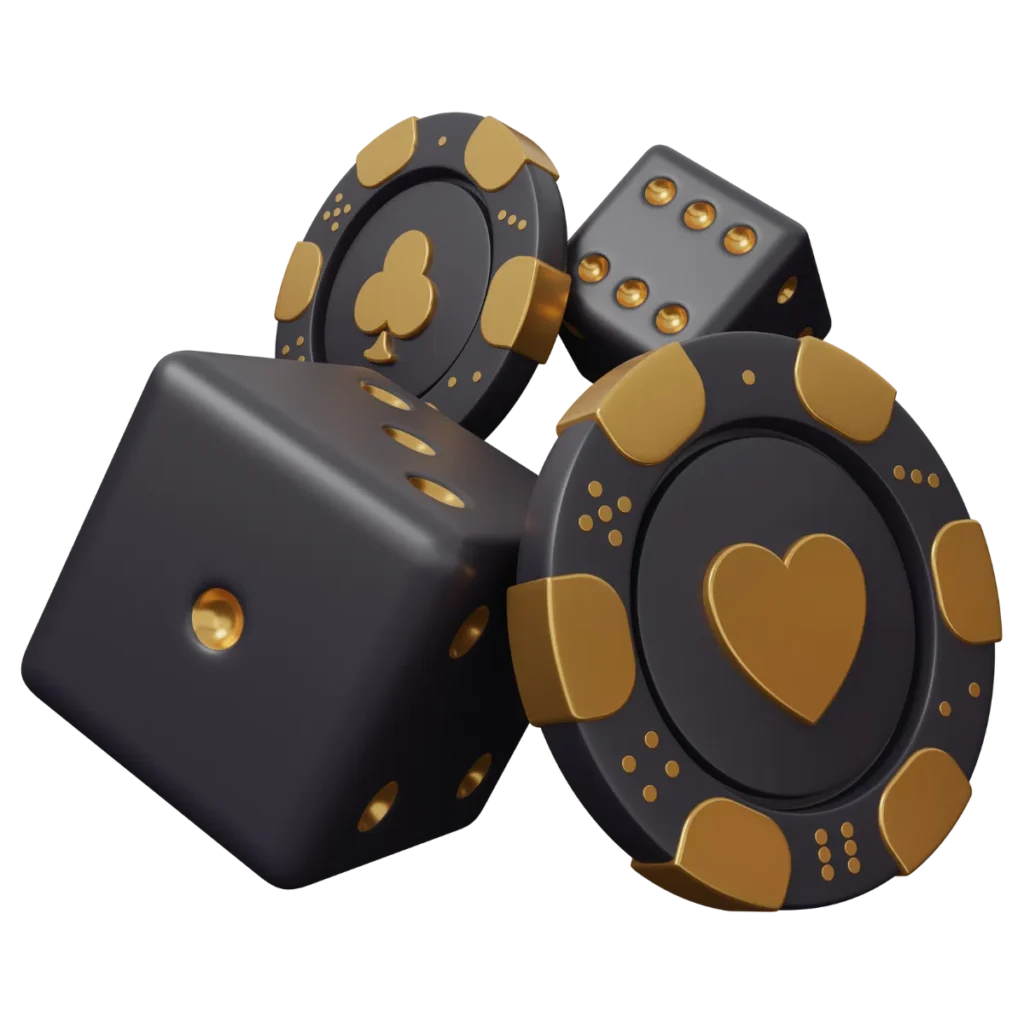
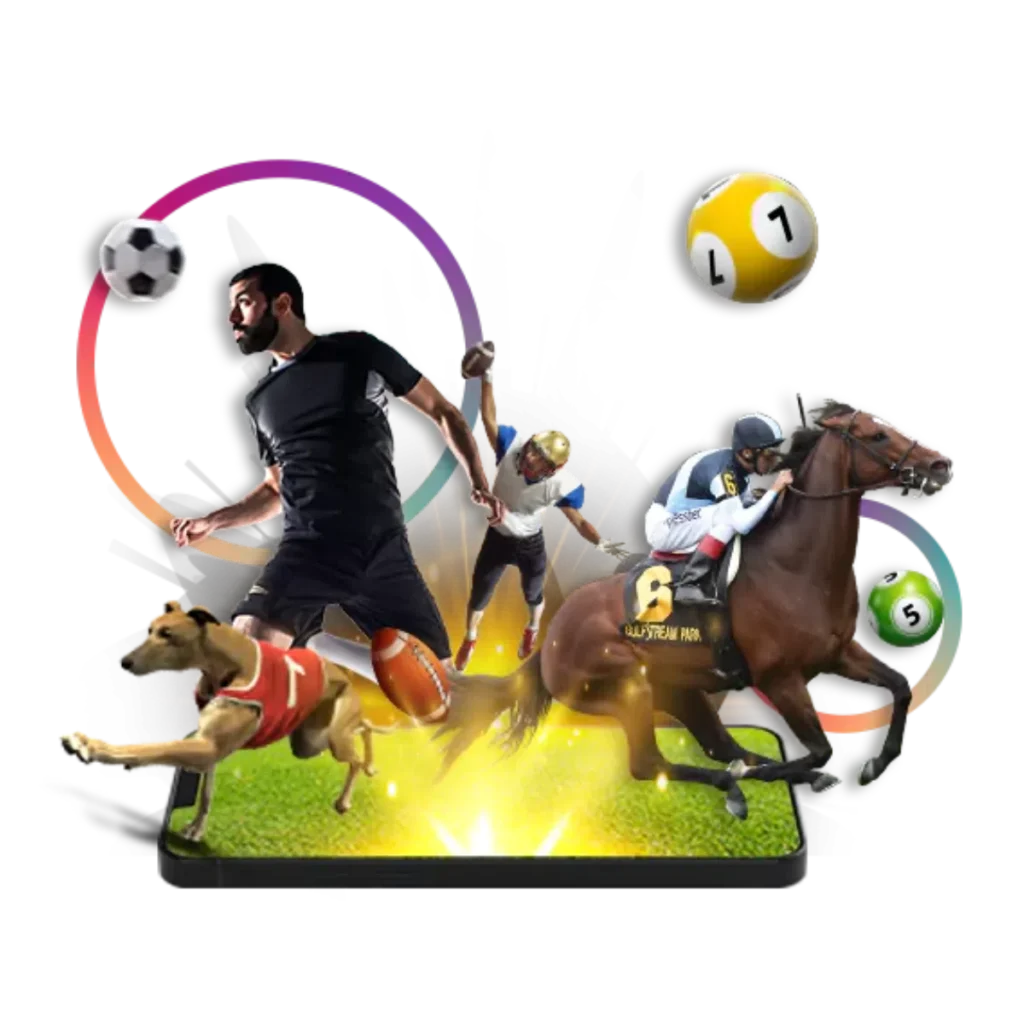
Fix IWIN game category imagery and centralize category image mapping.

diff --git a/content/games/catalog.ts b/content/games/catalog.ts
@@ -1,3 +1,5 @@
+import type { Locale } from "@/lib/i18n/config";
+
 export type GameCategoryId = "slots" | "live-casino" | "sports" | "4d";
 
 export type GameCategory = {
@@ -5,6 +7,8 @@ export type GameCategory = {
   name: string;
   routeKey: "games-slots" | "games-live-casino" | "games-sports" | "games-4d";
   image: string;
+  alt: Record<Locale, string>;
+  objectPosition?: string;
 };
 
 export type ProviderReference = {
@@ -14,12 +18,71 @@ export type ProviderReference = {
   note: string;
 };
 
+/** Single source of truth for IWIN game category card imagery. */
 export const GAME_CATEGORIES: readonly GameCategory[] = [
-  { id: "slots", name: "Slots", routeKey: "games-slots", image: "/images/games/slots.webp" },
-  { id: "live-casino", name: "Live Casino", routeKey: "games-live-casino", image: "/images/games/live-casino.webp" },
-  { id: "sports", name: "Sports", routeKey: "games-sports", image: "/images/games/sports.webp" },
-  { id: "4d", name: "4D", routeKey: "games-4d", image: "/images/games/4d.webp" },
+  {
+    id: "slots",
+    name: "Slots",
+    routeKey: "games-slots",
+    image: "/images/games/slots.webp",
+    alt: {
+      en: "IWIN Slots",
+      ms: "Slot IWIN",
+      zh: "IWIN 老虎机",
+    },
+  },
+  {
+    id: "live-casino",
+    name: "Live Casino",
+    routeKey: "games-live-casino",
+    image: "/images/games/live-casino.png",
+    alt: {
+      en: "IWIN Live Casino",
+      ms: "Kasino Langsung IWIN",
+      zh: "IWIN 真人娱乐场",
+    },
+    objectPosition: "center top",
+  },
+  {
+    id: "sports",
+    name: "Sports",
+    routeKey: "games-sports",
+    image: "/images/games/sports.webp",
+    alt: {
+      en: "IWIN Sports",
+      ms: "Sukan IWIN",
+      zh: "IWIN 体育",
+    },
+    objectPosition: "center 35%",
+  },
+  {
+    id: "4d",
+    name: "4D",
+    routeKey: "games-4d",
+    image: "/images/games/4d.png",
+    alt: {
+      en: "IWIN 4D",
+      ms: "4D IWIN",
+      zh: "IWIN 4D",
+    },
+    objectPosition: "left center",
+  },
 ] as const;
+
+export function getGameCategoryImage(routeKey: GameCategory["routeKey"]): string {
+  return GAME_CATEGORIES.find((cat) => cat.routeKey === routeKey)?.image ?? "/images/games/slots.webp";
+}
+
+export function getGameCategoryAlt(
+  routeKey: GameCategory["routeKey"],
+  locale: Locale,
+): string {
+  return GAME_CATEGORIES.find((cat) => cat.routeKey === routeKey)?.alt[locale] ?? "IWIN game category";
+}
+
+export function getGameCategoryByRouteKey(routeKey: GameCategory["routeKey"]): GameCategory | undefined {
+  return GAME_CATEGORIES.find((cat) => cat.routeKey === routeKey);
+}
 
 export const PROVIDERS: readonly ProviderReference[] = [
   {

diff --git a/components/pages/PageViews.tsx b/components/pages/PageViews.tsx
@@ -163,16 +163,20 @@ export function HomePageView({ locale }: { locale: Locale }) {
             description={home.categories.intro}
           />
           <div className="mt-8 grid gap-4 sm:grid-cols-2 lg:grid-cols-4">
-            {home.categories.items.map((item, index) => (
+            {home.categories.items.map((item, index) => {
+              const category = GAME_CATEGORIES.find((cat) => cat.routeKey === item.routeKey);
+              return (
               <CategoryCard
                 key={item.routeKey}
                 href={item.href}
                 title={item.title}
                 description={item.description}
-                image={item.image || GAME_CATEGORIES[index]?.image || "/images/games/slots.webp"}
+                image={category?.image ?? item.image ?? "/images/games/slots.webp"}
+                alt={category?.alt[locale] ?? item.title}
+                objectPosition={category?.objectPosition}
                 priority={index < 2}
               />
-            ))}
+            )})}
           </div>
         </Container>
       </section>
@@ -457,6 +461,8 @@ export function GamesHubPageView({ locale }: { locale: Locale }) {
                 title={cat.name}
                 description={cardCopy[index]}
                 image={cat.image}
+                alt={cat.alt[locale]}
+                objectPosition={cat.objectPosition}
                 priority={index < 2}
               />
             ))}

diff --git a/content/i18n/rich/hero-images.ts b/content/i18n/rich/hero-images.ts
@@ -1,3 +1,7 @@
+import {
+  getGameCategoryImage,
+  type GameCategory,
+} from "@/content/games/catalog";
 import type { PageId } from "./types";
 
 /** Maps each page to an existing asset under public/images. */
@@ -5,10 +9,10 @@ const HERO_IMAGES: Partial<Record<PageId, string>> = {
   "about-iwin": "/images/hero/banner-2.png",
   "official-partner": "/images/hero/banner-3.png",
   games: "/images/hero/banner-1.png",
-  "games-slots": "/images/games/slots.webp",
-  "games-live-casino": "/images/games/live-casino.webp",
-  "games-sports": "/images/games/sports.webp",
-  "games-4d": "/images/games/4d.webp",
+  "games-slots": getGameCategoryImage("games-slots"),
+  "games-live-casino": getGameCategoryImage("games-live-casino"),
+  "games-sports": getGameCategoryImage("games-sports"),
+  "games-4d": getGameCategoryImage("games-4d"),
   "game-providers": "/images/hero/banner-2.png",
   guides: "/images/hero/banner-2.png",
   "guides-how-to-register": "/images/hero/banner-1.png",
@@ -36,4 +40,8 @@ const HERO_IMAGES: Partial<Record<PageId, string>> = {
 
 export function resolveHeroImage(pageId: PageId, fallback?: string): string | undefined {
   return HERO_IMAGES[pageId] ?? fallback;
+}
+
+export function resolveCategoryHeroImage(routeKey: GameCategory["routeKey"]): string {
+  return getGameCategoryImage(routeKey);
 }

diff --git a/content/i18n/home.ts b/content/i18n/home.ts
@@ -1,5 +1,6 @@
 import type { Locale, RouteKey } from "@/lib/i18n/config";
 import { routePath } from "@/lib/i18n/paths";
+import { GAME_CATEGORIES } from "@/content/games/catalog";
 import { getHomeFaqs, type FaqItem } from "./faq";
 
 type Cta = { label: string; routeKey?: RouteKey; href?: string };
@@ -470,12 +471,6 @@ export function getHomeContent(locale: Locale): HomeContent {
     href: routeKey ? routePath(routeKey, locale) : undefined,
   });
   const categoryKeys = ["games-slots", "games-live-casino", "games-sports", "games-4d"] as const;
-  const categoryImages = [
-    "/images/games/slots.webp",
-    "/images/games/live-casino.webp",
-    "/images/games/sports.webp",
-    "/images/games/4d.webp",
-  ];
   const guideKeys = [
     "guides-how-to-register",
     "guides-how-to-login",
@@ -521,7 +516,7 @@ export function getHomeContent(locale: Locale): HomeContent {
         description: c.categories[i + 3][1],
         routeKey: key,
         href: routePath(key, locale),
-        image: categoryImages[i],
+        image: GAME_CATEGORIES[i]?.image,
       })),
     },
     whyIwin: {

diff --git a/components/content/PagePrimitives.tsx b/components/content/PagePrimitives.tsx
@@ -202,12 +202,16 @@ export function CategoryCard({
   title,
   description,
   image,
+  alt,
+  objectPosition = "center",
   priority = false,
 }: {
   href: string;
   title: string;
   description: string;
   image: string;
+  alt?: string;
+  objectPosition?: string;
   priority?: boolean;
 }) {
   return (
@@ -218,10 +222,11 @@ export function CategoryCard({
       <div className="relative aspect-[16/10] overflow-hidden">
         <Image
           src={image}
-          alt={title}
+          alt={alt ?? title}
           fill
           sizes="(max-width:768px) 100vw, (max-width:1024px) 50vw, 25vw"
           className="object-cover transition duration-500 group-hover:scale-[1.04]"
+          style={{ objectPosition }}
           priority={priority}
         />
         <div className="absolute inset-0 bg-gradient-to-t from-black/70 via-black/10 to-transparent" />
